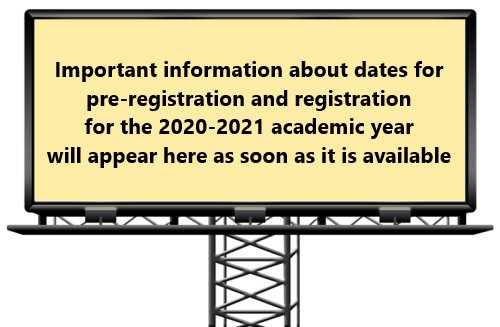
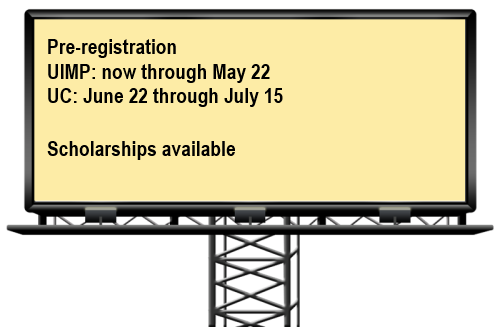
Changes in ad sign, index.html added a few links, changes in faculty.html and scholarships.html and preregistration.html

Changed region(s): [[0.09, 0.1223, 0.9, 0.3364], [0.09, 0.367, 0.9, 0.5199]]

diff --git a/scholarships.html b/scholarships.html
@@ -210,8 +210,6 @@
     <div class="content_fullwidth">
       <p><h2><center>SCHOLARSHIPS</center></h2></p>
       <center><b>This page contains information about scholarships available specifically for this Master.</b></center></br> 
-      <center><b>*** Web Page under construction ***</b></center></br> 
-      
     </div>
 
     <div class="content_fullwidth">
@@ -219,7 +217,28 @@
     <div class="accrodation">
     
     	<!-- S -->
-        <span class="acc-trigger active"><a href="#">Scholarships for academic year 2019-2020</a></span>
+        <span class="acc-trigger active"><a href="#">Scholarships for academic year 2020-2021</a></span>
+        <div class="acc-container">
+        <div class="content">
+          Carolina Foundation for Latin America and JAE intro ICU CSIC: 2 scholarships.Information can be found <a href="https://gestion.fundacioncarolina.es/programas/5251">here</a>. </br></br>
+   	  CSIC JAE intro 2020: 10 scholarships. The responsible professors and the titles are listed below:</br></br>
+          Maria Teresa Ceballos: "Automatic screening of astronomical X-ray images through Deep Learning techniques".</br>
+	  Jonatan Piedra: " BSM searches with long-lived particles at CMS".</br>
+	  Enrique Martínez-González: "Studying the capabilities of future CMB experiments to detect primordial gravitational waves".</br>
+	  Ignacio González-Serrano: "Searching obscured AGNs with J-PAS".</br>
+	  Patricio Vielva: "The cosmic microwave background polarization as a new window to look at the large-scale anomalies".</br>
+	  Jordi Duarte Campderros: "Fundamentals of 3D Silicon pixels for particle detection at collider experiments".</br>
+	  Belén Barreiro: "Search for primordial gravitational waves".</br>
+	  Pablo Martínez Ruiz del Árbol: "Using adversarial neural networks to improve the simulation of top-antitop pair production".</br>
+	  Alicia Calderón Tazón: "Study of the Higgs Boson properties in the CMS experiment at LHC".</br>
+	  Rocío Vilar Cortabitarte: "GEANT4 simulations for the DAMIC-M experiment".</br></br>
+	  Information for these scholarships can be found <a href="https://sede.csic.gob.es/intro2020">here</a>. </br>
+        </div>
+        </div>
+
+    	<!-- S -->
+        <span class="acc-trigger active"><a href="#">Scholarships for academic year 2019-2020
+	</a></span>
         <div class="acc-container">
         <div class="content">
 	  Women for Africa Foundation: 1 scholarship. </br> 
@@ -227,19 +246,7 @@
 	  JAE intro somm CSIC: 2 scholarships.
         </div>
         </div>
-
-    	<!-- S -->
-        <span class="acc-trigger active"><a href="#">Scholarships for academic year 2020-2021</a></span>
-        <div class="acc-container">
-        <div class="content">
-          Carolina Foundation for Latin America and JAE intro ICU CSIC: 2 scholarships.Information can be found <a href="https://gestion.fundacioncarolina.es/programas/5251">here</a>. </br>
-	  JAE intro ICU CSIC: 2 scholarships. </br>
-	  Women for Africa Foundation: to be confirmed. Link to information will appear here when confirmed. </br> 
-	  Carolina Foundation for Latin America: to be confirmed. Link to information will appear here when confirmed. </br>
-	  JAE intro somm CSIC: 2 scholarships.
-        </div>
-        </div>
-
+	
     </div>
     </div>
     

diff --git a/index.html b/index.html
@@ -597,7 +597,11 @@
 <div class="container">
      <h1>Need more information?</h1>
      <br />
-     <a href="faq.html" class="readmore_but13">FAQ <i class="fa fa-arrow-circle-right"></i></a>
+     <a href="faq.html" class="readmore_but13">FAQ <i class="fa fa-arrow-circle-right"></i></a></br></br></br>
+     <a href="https://web.unican.es/centros/ciencias/estudios-de-master/master-interuniversitario-(uc-uimp)-en-fisica-de-particulas-y-del-cosmos"
+	class="readmore_but13">UC Master Web Page <i class="fa fa-arrow-circle-right"></i></a>
+     <a href="http://www.uimp.es/postgrado/estudios/fichaestudio.php?plan=P04B&any=2018-19&lan=es"
+	class="readmore_but13">UIMP Master Web Page <i class="fa fa-arrow-circle-right"></i></a></br>
 </div>
 </div>
 

diff --git a/faculty.html b/faculty.html
@@ -212,8 +212,6 @@
       <center><b>This page provides a brief description of the faculty involved in the Master who are responsible for the different courses.</b></center></br> 
       <center><b>This is NOT a complete list of the faculty: some researchers from different institutes who contribute as assistants to several courses
 	         are listed, but not all.</b></center></br> 
-      <center><b>*** Web Page under construction ***</b></center></br> 
-      
     </div>
 
 	<div class="content_fullwidth">
